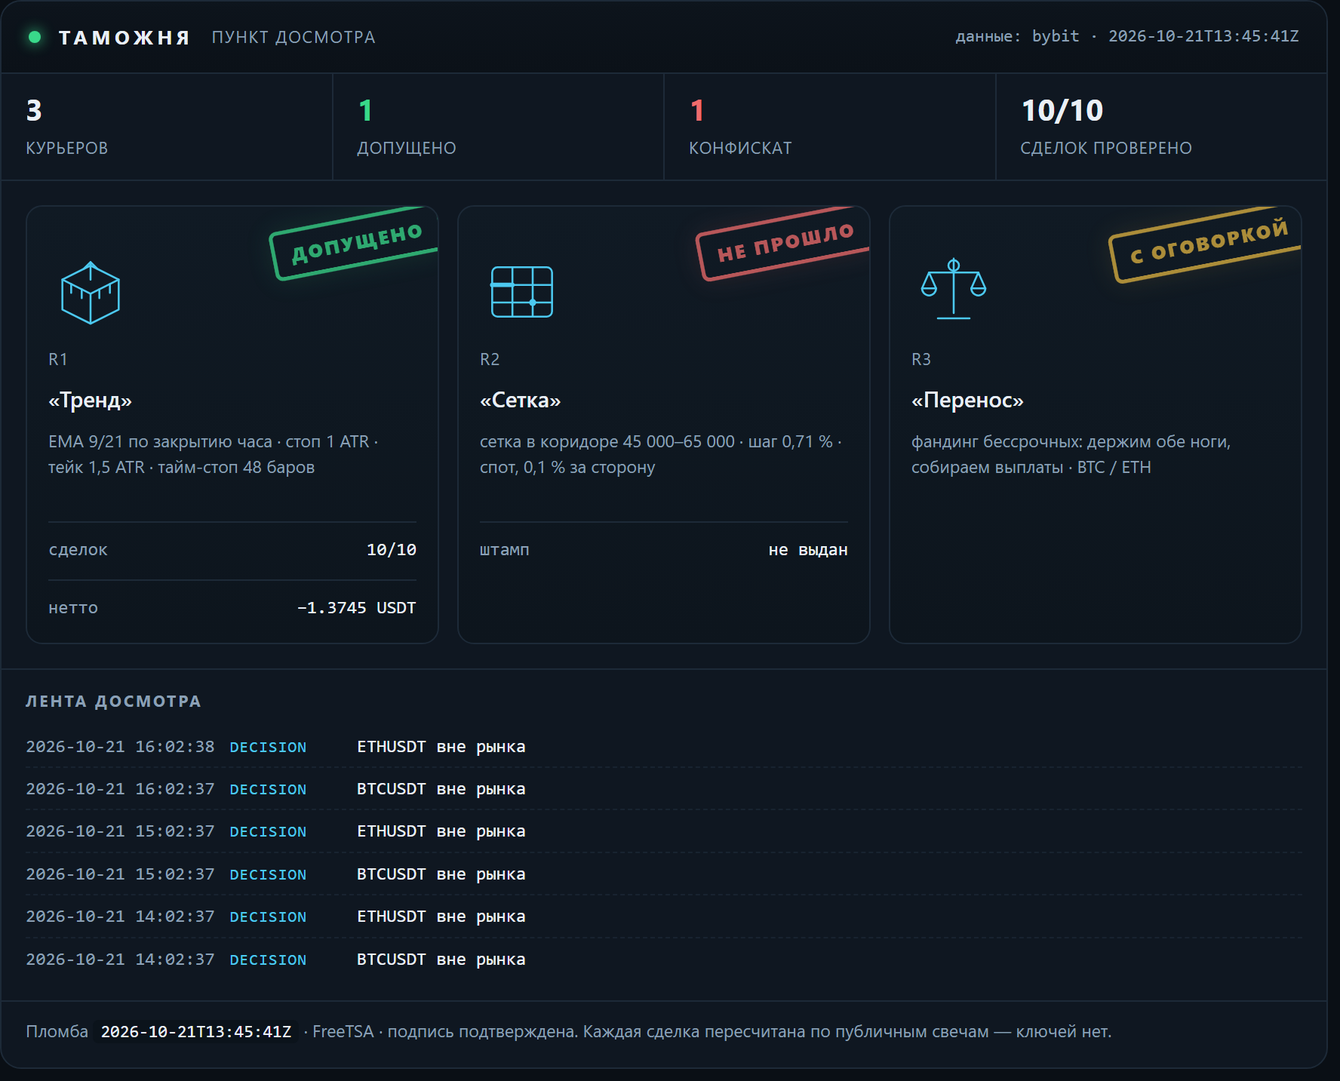
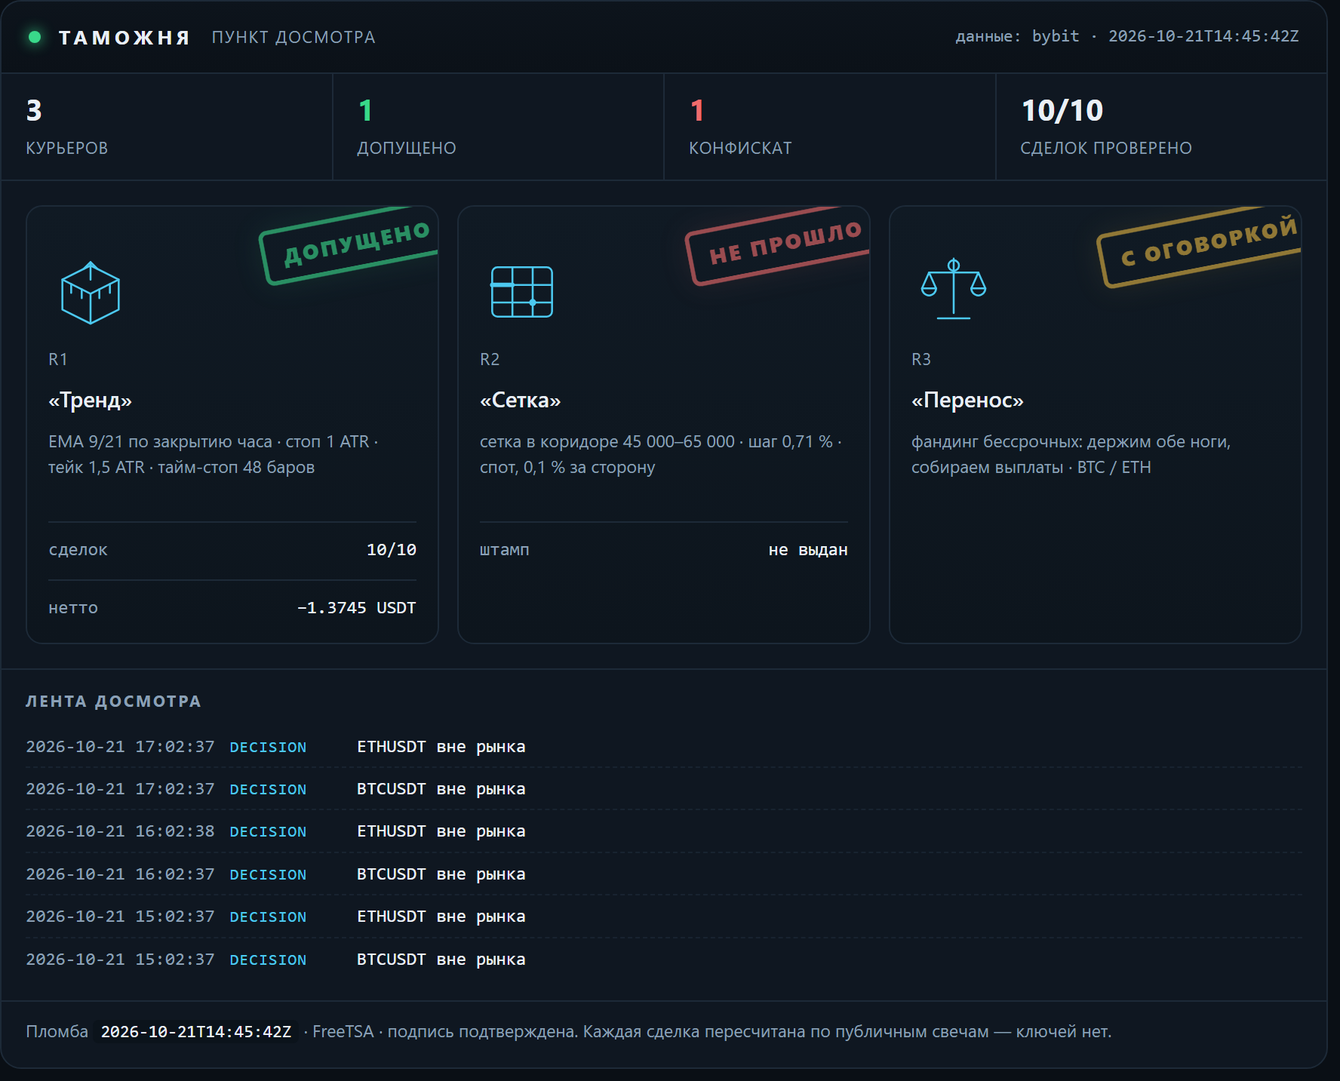
lab: таможня — свежие числа досмотра

Changed region(s): [[0.8052, 0.1842, 0.96, 0.2763], [0.4955, 0.1842, 0.6503, 0.2763], [0.1858, 0.1842, 0.3407, 0.2763]]

diff --git a/docs/customs.html b/docs/customs.html
@@ -16,7 +16,7 @@
   <h1><a href="index.html">Gramwright Lab</a></h1>
   <p>Журнал проверки торговых гипотез: что проверяли, что вышло по факту, сколько съели издержки. Числа берутся из журнала стенда. Не инвестиционная рекомендация.</p>
 </header>
-<h1>Таможня</h1><p class="intro">Пункт досмотра заявленных результатов. Стратегии приезжают с грузом обещаний, и каждая проходит проверку по публичным данным биржи: цены существуют, комиссии по тарифу, нетто сходится. Что прошло — получает штамп. Что не прошло — в конфискат, с причиной. Штамп означает «записи подлинные», а не «стратегия прибыльна».</p><p><img src="img/customs.png" alt="Терминал досмотра: три курьера, штампы, лента событий" style="width:100%;height:auto;border:1px solid var(--line);border-radius:10px"></p><p class="c-note">Сверху — тот же терминал, что собирается из журналов: счётчики, эмблемы курьеров, штампы и лента последних событий. Ниже — то же самое текстом, чтобы читалось с телефона и индексировалось поиском.</p><article><h2>R1 «Тренд» <span class="verdict">— <span class="c-ok">допущено</span></span></h2><p><strong>Правило:</strong> EMA 9/21 по закрытию часа · стоп 1 ATR · тейк 1,5 ATR · тайм-стоп 48 баров</p><p><strong>Декларация:</strong> Заявлено до прогона: держать 30 сделок, лимит нотионала 10 % от счёта, стоп дня −1 %. Прибыль не заявлялась — это важно: курьер не обещал доход.</p><p><strong>Проверено по публичным свечам, без ключей:</strong> 10 из 10 сделок. Сумма нетто −1.3745 USDT.</p><ul class="c-chk"><li class="y">BTCUSDT: нетто −0.8746 USDT · комиссии 0.0901 · проверено · с поправкой</li><li class="y">BTCUSDT: нетто −0.5441 USDT · комиссии 0.0896 · проверено</li><li class="y">ETHUSDT: нетто −0.2253 USDT · комиссии 0.0266 · проверено</li><li class="y">ETHUSDT: нетто −0.1513 USDT · комиссии 0.0265 · проверено</li><li class="y">ETHUSDT: нетто +0.1984 USDT · комиссии 0.0262 · проверено</li><li class="y">ETHUSDT: нетто +0.1617 USDT · комиссии 0.0260 · проверено</li><li class="y">ETHUSDT: нетто +0.2645 USDT · комиссии 0.0263 · проверено</li><li class="y">BTCUSDT: нетто +0.6246 USDT · комиссии 0.0897 · проверено</li><li class="y">BTCUSDT: нетто −0.5881 USDT · комиссии 0.0910 · проверено</li><li class="y">ETHUSDT: нетто −0.2403 USDT · комиссии 0.0270 · проверено</li></ul><p class="tags">журнал sha256 653bc5b8099077fd… · проверяльщик verify-1</p><p class="c-note">Штамп означает: записи подлинные, а не что стратегия прибыльна. Курьер в минусе, и минус тоже стоит на штампе — иначе это была бы не проверка, а реклама.</p><p class="tags">источник: verify-report.json</p></article><article><h2>R2 «Сетка» <span class="verdict">— <span class="c-bad">не прошло</span></span></h2><p><strong>Правило:</strong> сетка в коридоре 45 000–65 000 · шаг 0,71 % · спот, 0,1 % за сторону</p><p><strong>Декларация:</strong> Заявлено: «44 % урожая уходит бирже в виде комиссий». Кроме того — перевес над простым владением монетой.</p><p><strong>Что сошлось:</strong></p><ul class="c-chk"><li class="y">сами числа пересчитаны и воспроизводятся: коридор 45–65k был активен 23 % всей истории и 28 % последних двух лет</li></ul><p><strong>Что не сошлось:</strong></p><ul class="c-chk"><li class="n">44 % не подтвердилось: при шаге 0,71 % и тарифе 0,1 % комиссия съедает 28,3 % шага. Чтобы получить 44 %, нужен шаг 0,45 % — это около 80 уровней, а не 50</li><li class="n">от урожая доля комиссий 85,5 % за всю историю и 49,6 % за последние два года — тоже не 44 %</li><li class="n">перевес над владением посчитан на тарифе 0,055 %: при нём +1,32 п. п., на розничном 0,1 % — −0,72 п. п. То есть перевес исчезает</li><li class="n">семилетний тест стартовал в сентябре 2019 при биткоине около 10 000 — ниже коридора. Он говорит, что фиксированный коридор не подходит для периода, а не что сетка отстаёт</li></ul><p class="tags">источник: lab_grid.py, пересчёт 17.10.2026</p></article><article><h2>R3 «Перенос» <span class="verdict">— <span class="c-warn">с оговоркой</span></span></h2><p><strong>Правило:</strong> фандинг бессрочных: держим обе ноги, собираем выплаты · BTC / ETH</p><p><strong>Декларация:</strong> Заявлено: около 11,9 % в год от выплат фандинга при просадке выплатной кривой меньше 2 %.</p><p><strong>Что сошлось:</strong></p><ul class="c-chk"><li class="y">выплаты взяты из публичной истории биржи, ключей не нужно: BTC — 7 190 выплат с 25.03.2020, ETH — 6 561 с 21.10.2020</li><li class="y">сумма сходится: +83,4 % и +83,2 % за 6,6 и 6,0 года — те самые ~11,9 % в год</li><li class="y">худшая просадка выплатной кривой: −1,65 % и −1,97 %</li></ul><p><strong>Что не сошлось:</strong></p><ul class="c-chk"><li class="n">оговорка 1: премию сжали — 2021 год дал +38,3 %, 2026 — +1,96 %. Прошлое не повторяется</li><li class="n">оговорка 2: вход-выход стоит около 0,31 %, капитала нужно 1,2 от нотионала, текущий базис −0,082 % против входа</li><li class="n">оговорка 3: риск площадки. История FTX в этой же таблице выглядела так же прилично</li></ul><p class="tags">источник: публичная история фандинга Bybit, замер 17.10.2026</p></article><div class="c-conf"><h3>Конфискат</h3><p><strong>«Сетка»: заявленные 44 % комиссий не подтвердились.</strong> Досмотр показал 28,3 % от шага и 85,5 % от урожая — цифра хуже заявленной по форме, но лучше по смыслу: сетку убивает не размер шага, а то, что урожай почти весь уходит в комиссии. Это и вышло в выпуск — с поправкой, а не с красивой цифрой.</p></div><p class="c-note">Пломба: <code>2026-10-21T13:45:41Z</code> · нотариус FreeTSA · Oct 21 13:45:41 2026 GMT · подпись подтверждена. Манифест скрепляет отчёт проверки, журнал сделок и декларации курьеров: подменишь любую цифру — пломба перестанет сходиться.</p><p class="c-note">Досмотр идёт по публичным минутным свечам и публичной истории фандинга — ключей у проверяющего нет, и он может повторить проверку сам.</p><p class="c-note">Контент образовательный, не является инвестиционной рекомендацией. Торговля связана с риском потери капитала.</p>
+<h1>Таможня</h1><p class="intro">Пункт досмотра заявленных результатов. Стратегии приезжают с грузом обещаний, и каждая проходит проверку по публичным данным биржи: цены существуют, комиссии по тарифу, нетто сходится. Что прошло — получает штамп. Что не прошло — в конфискат, с причиной. Штамп означает «записи подлинные», а не «стратегия прибыльна».</p><p><img src="img/customs.png" alt="Терминал досмотра: три курьера, штампы, лента событий" style="width:100%;height:auto;border:1px solid var(--line);border-radius:10px"></p><p class="c-note">Сверху — тот же терминал, что собирается из журналов: счётчики, эмблемы курьеров, штампы и лента последних событий. Ниже — то же самое текстом, чтобы читалось с телефона и индексировалось поиском.</p><article><h2>R1 «Тренд» <span class="verdict">— <span class="c-ok">допущено</span></span></h2><p><strong>Правило:</strong> EMA 9/21 по закрытию часа · стоп 1 ATR · тейк 1,5 ATR · тайм-стоп 48 баров</p><p><strong>Декларация:</strong> Заявлено до прогона: держать 30 сделок, лимит нотионала 10 % от счёта, стоп дня −1 %. Прибыль не заявлялась — это важно: курьер не обещал доход.</p><p><strong>Проверено по публичным свечам, без ключей:</strong> 10 из 10 сделок. Сумма нетто −1.3745 USDT.</p><ul class="c-chk"><li class="y">BTCUSDT: нетто −0.8746 USDT · комиссии 0.0901 · проверено · с поправкой</li><li class="y">BTCUSDT: нетто −0.5441 USDT · комиссии 0.0896 · проверено</li><li class="y">ETHUSDT: нетто −0.2253 USDT · комиссии 0.0266 · проверено</li><li class="y">ETHUSDT: нетто −0.1513 USDT · комиссии 0.0265 · проверено</li><li class="y">ETHUSDT: нетто +0.1984 USDT · комиссии 0.0262 · проверено</li><li class="y">ETHUSDT: нетто +0.1617 USDT · комиссии 0.0260 · проверено</li><li class="y">ETHUSDT: нетто +0.2645 USDT · комиссии 0.0263 · проверено</li><li class="y">BTCUSDT: нетто +0.6246 USDT · комиссии 0.0897 · проверено</li><li class="y">BTCUSDT: нетто −0.5881 USDT · комиссии 0.0910 · проверено</li><li class="y">ETHUSDT: нетто −0.2403 USDT · комиссии 0.0270 · проверено</li></ul><p class="tags">журнал sha256 d00a9764941a6fe3… · проверяльщик verify-1</p><p class="c-note">Штамп означает: записи подлинные, а не что стратегия прибыльна. Курьер в минусе, и минус тоже стоит на штампе — иначе это была бы не проверка, а реклама.</p><p class="tags">источник: verify-report.json</p></article><article><h2>R2 «Сетка» <span class="verdict">— <span class="c-bad">не прошло</span></span></h2><p><strong>Правило:</strong> сетка в коридоре 45 000–65 000 · шаг 0,71 % · спот, 0,1 % за сторону</p><p><strong>Декларация:</strong> Заявлено: «44 % урожая уходит бирже в виде комиссий». Кроме того — перевес над простым владением монетой.</p><p><strong>Что сошлось:</strong></p><ul class="c-chk"><li class="y">сами числа пересчитаны и воспроизводятся: коридор 45–65k был активен 23 % всей истории и 28 % последних двух лет</li></ul><p><strong>Что не сошлось:</strong></p><ul class="c-chk"><li class="n">44 % не подтвердилось: при шаге 0,71 % и тарифе 0,1 % комиссия съедает 28,3 % шага. Чтобы получить 44 %, нужен шаг 0,45 % — это около 80 уровней, а не 50</li><li class="n">от урожая доля комиссий 85,5 % за всю историю и 49,6 % за последние два года — тоже не 44 %</li><li class="n">перевес над владением посчитан на тарифе 0,055 %: при нём +1,32 п. п., на розничном 0,1 % — −0,72 п. п. То есть перевес исчезает</li><li class="n">семилетний тест стартовал в сентябре 2019 при биткоине около 10 000 — ниже коридора. Он говорит, что фиксированный коридор не подходит для периода, а не что сетка отстаёт</li></ul><p class="tags">источник: lab_grid.py, пересчёт 17.10.2026</p></article><article><h2>R3 «Перенос» <span class="verdict">— <span class="c-warn">с оговоркой</span></span></h2><p><strong>Правило:</strong> фандинг бессрочных: держим обе ноги, собираем выплаты · BTC / ETH</p><p><strong>Декларация:</strong> Заявлено: около 11,9 % в год от выплат фандинга при просадке выплатной кривой меньше 2 %.</p><p><strong>Что сошлось:</strong></p><ul class="c-chk"><li class="y">выплаты взяты из публичной истории биржи, ключей не нужно: BTC — 7 190 выплат с 25.03.2020, ETH — 6 561 с 21.10.2020</li><li class="y">сумма сходится: +83,4 % и +83,2 % за 6,6 и 6,0 года — те самые ~11,9 % в год</li><li class="y">худшая просадка выплатной кривой: −1,65 % и −1,97 %</li></ul><p><strong>Что не сошлось:</strong></p><ul class="c-chk"><li class="n">оговорка 1: премию сжали — 2021 год дал +38,3 %, 2026 — +1,96 %. Прошлое не повторяется</li><li class="n">оговорка 2: вход-выход стоит около 0,31 %, капитала нужно 1,2 от нотионала, текущий базис −0,082 % против входа</li><li class="n">оговорка 3: риск площадки. История FTX в этой же таблице выглядела так же прилично</li></ul><p class="tags">источник: публичная история фандинга Bybit, замер 17.10.2026</p></article><div class="c-conf"><h3>Конфискат</h3><p><strong>«Сетка»: заявленные 44 % комиссий не подтвердились.</strong> Досмотр показал 28,3 % от шага и 85,5 % от урожая — цифра хуже заявленной по форме, но лучше по смыслу: сетку убивает не размер шага, а то, что урожай почти весь уходит в комиссии. Это и вышло в выпуск — с поправкой, а не с красивой цифрой.</p></div><p class="c-note">Пломба: <code>2026-10-21T14:45:42Z</code> · нотариус FreeTSA · Oct 21 14:45:41 2026 GMT · подпись подтверждена. Манифест скрепляет отчёт проверки, журнал сделок и декларации курьеров: подменишь любую цифру — пломба перестанет сходиться.</p><p class="c-note">Досмотр идёт по публичным минутным свечам и публичной истории фандинга — ключей у проверяющего нет, и он может повторить проверку сам.</p><p class="c-note">Контент образовательный, не является инвестиционной рекомендацией. Торговля связана с риском потери капитала.</p>
 <footer class="site">
   Код стенда и аудитора: <a href="https://github.com/XSlaidx/truth-engine">XSlaidx/truth-engine</a>
   &middot; <a href="graveyard.html">кладбище правил</a>
